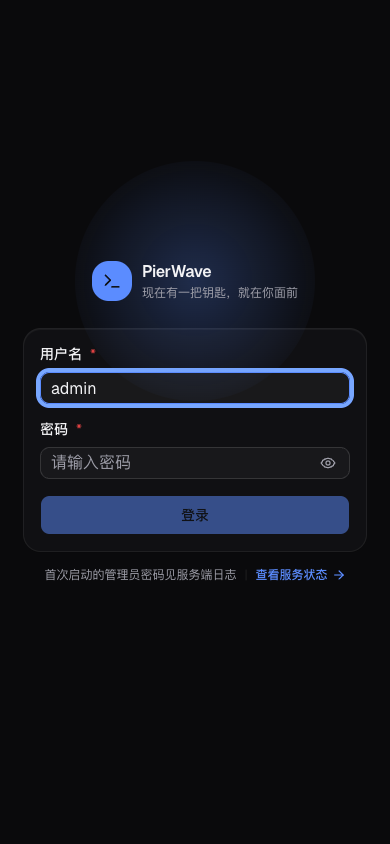
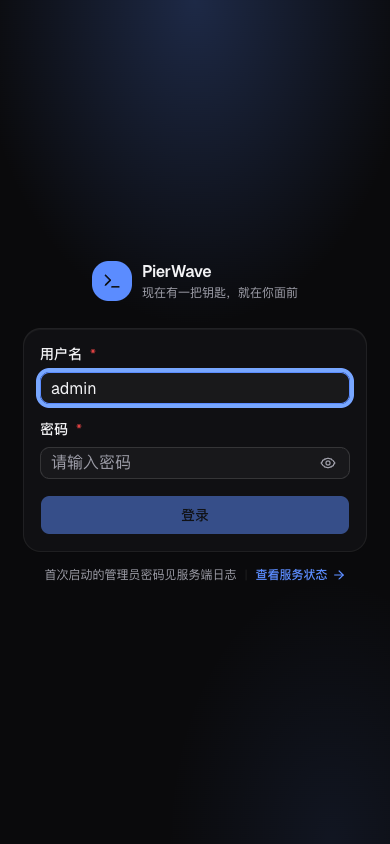
feat(web): restore the login glow as a documented exception
the owner prefers the full screen gradient there, so it comes back behind an
explicit rule that keeps it to that one screen, out of the interaction path and
above the contrast floor.

Changed region(s): [[0.1538, 0.0, 0.8308, 0.2156], [0.2769, 0.2773, 0.7077, 0.4313]]

diff --git a/web/src/index.css b/web/src/index.css
@@ -168,8 +168,12 @@
   --card-shadow:
     inset 0 1px 0 rgb(255 255 255 / 0.045),
     0 1px 2px rgb(0 0 0 / 0.35);
-  /* 登录页品牌标识周围的小范围光晕强度：深色底上可以更明显 */
-  --auth-glow-strong: 26%;
+  /*
+   * 登录页整屏光晕强度（设计规范里唯一允许的整屏渐变）：
+   * 深色底上可以更明显，但只到「一层氛围」为止，不压过卡片。
+   */
+  --auth-glow-strong: 24%;
+  --auth-glow-soft: 9%;
   --radius: 0.75rem;
   --sidebar: oklch(0.165 0.005 285);
   --sidebar-foreground: oklch(0.965 0.003 285);
@@ -220,8 +224,9 @@
   --chart-5: oklch(0.554 0.041 257.4);
   --overlay: oklch(0.253 0.03 267.4 / 40%);
   --skeleton: oklch(0.253 0.03 267.4 / 6%);
-  /* 亮色下主色本身更深，光晕要收着用，避免品牌区域发蓝 */
-  --auth-glow-strong: 12%;
+  /* 亮色下主色本身更深，光晕要收着用，避免整屏发蓝、吃掉次要文字对比度 */
+  --auth-glow-strong: 11%;
+  --auth-glow-soft: 4.5%;
   --sidebar: oklch(1 0 0);
   --sidebar-foreground: oklch(0.253 0.03 267.4);
   --sidebar-primary: oklch(0.424 0.199 265.638);
@@ -481,16 +486,38 @@
 }
 
 /*
- * 登录页品牌光晕：只在 logo 与品牌名周围 240px 的圆内使用 primary 的
- * 低透明度径向渐变。页面背景保持平涂 zinc；不做整屏渐变，也不做动画。
+ * 登录页整屏光晕：这是整套视觉规范里唯一允许的整屏渐变
+ * （见 docs/DESIGN.md「例外：登录页允许整屏径向光晕」）。
+ *
+ * 只用 primary 的低透明度径向渐变，不引入第二种颜色，也不做动画：
+ * 一层从顶部中央向下铺开，一层在右下角收尾。深色下略强、亮色下收着用，
+ * 避免整屏发蓝；卡片与输入框都是不透明底色，光晕不会改变表单文字的实际
+ * 对比度（实测见 web/screenshots/web-polish/README.md）。
+ *
+ * 纯装饰层：`pointer-events: none` + aria-hidden，不遮挡也不拦截交互。
+ * 静态渐变没有动画，因此不需要额外的 reduced-motion 分支；在高对比度偏好下
+ * 整体再压低一层，防止渐变削弱文字对比。
  */
-.auth-brand-glow {
-  background-image: radial-gradient(
-    circle 190px at 50% 50%,
-    color-mix(in oklch, var(--primary) var(--auth-glow-strong), transparent),
-    transparent 72%
-  );
+.auth-glow {
+  pointer-events: none;
+  background-image:
+    radial-gradient(
+      ellipse 80% 55% at 50% 0%,
+      color-mix(in oklch, var(--primary) var(--auth-glow-strong), transparent),
+      transparent 70%
+    ),
+    radial-gradient(
+      ellipse 60% 45% at 85% 100%,
+      color-mix(in oklch, var(--primary) var(--auth-glow-soft), transparent),
+      transparent 70%
+    );
   background-repeat: no-repeat;
+}
+
+@media (prefers-contrast: more) {
+  .auth-glow {
+    opacity: 0.45;
+  }
 }
 
 @media (prefers-reduced-motion: reduce) {

diff --git a/web/src/pages/Login.tsx b/web/src/pages/Login.tsx
@@ -48,21 +48,23 @@ export default function LoginPage() {
     : null;
 
   return (
-    <div className="relative grid min-h-full place-items-center bg-background p-6">
+    <div className="relative grid min-h-full place-items-center overflow-hidden bg-background p-6">
+      {/* 整屏光晕：设计规范里唯一允许的整屏渐变，只属于登录页。
+          纯装饰层（pointer-events-none + aria-hidden），不遮挡、不拦截交互。 */}
+      <div
+        aria-hidden="true"
+        className="auth-glow pointer-events-none absolute inset-0"
+      />
+
       <div className="animate-enter relative w-full max-w-sm">
         <div className="mb-7 flex flex-col items-center gap-4 text-center">
           {/* 品牌标识：logo 与两行文字等高（40px），两行之间只留 2px。
-              缩进由 flex 布局自然产生，不再用 pl-* 对齐文字。
-              光晕只覆盖这一行（240px 圆），不再铺满整屏。 */}
-          <div className="relative isolate flex min-w-0 items-center gap-2.5">
-            <div
-              aria-hidden="true"
-              className="auth-brand-glow pointer-events-none absolute top-1/2 left-1/2 -z-10 size-60 -translate-x-1/2 -translate-y-1/2 rounded-full"
-            />
-            <span className="relative grid size-10 shrink-0 place-items-center rounded-xl bg-primary text-primary-foreground">
+              缩进由 flex 布局自然产生，不再用 pl-* 对齐文字。 */}
+          <div className="flex min-w-0 items-center gap-2.5">
+            <span className="grid size-10 shrink-0 place-items-center rounded-xl bg-primary text-primary-foreground">
               <TerminalIcon className="icon-lg" aria-hidden="true" />
             </span>
-            <span className="relative flex min-w-0 flex-col text-left">
+            <span className="flex min-w-0 flex-col text-left">
               <span className="truncate text-base leading-tight font-semibold tracking-tight">
                 {panelName}
               </span>

diff --git a/web/screenshots/web-polish/README.md b/web/screenshots/web-polish/README.md
@@ -32,16 +32,48 @@ assertion fails.
 
 ## 1. 登录页整屏光晕 / Login full-screen glow
 
-- 改前：`.auth-glow` 铺满 `inset-0`，页面顶部整片径向渐变。
-- 改后：删除整屏层，只在品牌标识行内保留 `240×240` 容器、`190px` 半径的
-  `radial-gradient`；页面与 `body` 的 `background-image` 均为 `none`。
+- 现状（项目所有者确认的唯一例外）：`.auth-glow` 覆盖 `inset-0`，由两层
+  `primary` 低透明度 `radial-gradient` 组成（顶部中央主光 + 右下角收尾），
+  深色下 24% / 9%、亮色下 11% / 4.5%，无动画；`pointer-events: none` +
+  `aria-hidden="true"`，不拦截交互，`prefers-contrast: more` 下整体降到 45%。
+- 规范：见 `docs/DESIGN.md`「例外：登录页允许整屏径向光晕 / Exception:
+  full-screen radial glow on the login page」；只允许出现在登录页。
+- 上一轮的「光晕收进品牌区」已被所有者要求撤回（整页渐变恢复为唯一例外）。
 
 | 亮 / light 1440 | 亮 / light 390 | 暗 / dark 1440 | 暗 / dark 390 |
 |---|---|---|---|
 | [before](before/login-light-1440.png) → [after](after/login-light-1440.png) | [before](before/login-light-390.png) → [after](after/login-light-390.png) | [before](before/login-dark-1440.png) → [after](after/login-dark-1440.png) | [before](before/login-dark-390.png) → [after](after/login-dark-390.png) |
 
-断言：`oldGlowPresent=false`、`glowWidth/Height=240`、`glowBackground` 含
-`radial-gradient(190px, …)`、页面容器与 `body` 的 `backgroundImage=none`。
+断言：`.auth-glow` 存在且 `getBoundingClientRect()` ≥ 视口（1440×900 / 390×844）；
+页面容器 `background-image` 为 `radial-gradient(…)` 而不是 `none`；
+`pointer-events=none`、`aria-hidden=true`；`body` 仍无渐变。
+
+Assertions: `.auth-glow` exists and its `getBoundingClientRect()` covers the
+viewport; the page container's `background-image` is a `radial-gradient(…)`,
+not `none`; `pointer-events=none` and `aria-hidden=true`; `body` still has no
+gradient.
+
+对比度实测（1440×900，headless Chrome 取渲染像素，文字色取自
+`getComputedStyle`，背景取截图像素）：
+
+Measured contrast (1440×900, rendered pixels sampled from headless Chrome;
+text colors from `getComputedStyle`, backgrounds from screenshot pixels):
+
+| 文字 / Text | 亮 / light | 暗 / dark |
+|---|---|---|
+| 表单标签 / form label | 15.88:1 | 17.14:1 |
+| 输入值 / typed input value | 15.88:1 | 15.84:1 |
+| placeholder | 5.51:1 | 6.54:1 |
+| 登录按钮（可用态）/ enabled button | 8.74:1 | 5.93:1 |
+| 品牌副标题（压在光晕上）/ brand subtitle over glow | 5.15:1 | 7.28:1 |
+| 底部提示（压在光晕上）/ hint over glow | 5.19:1 | 7.37:1 |
+
+全部 ≥ 4.5:1。禁用态按钮是整体 50% 不透明度（WCAG 1.4.3 对非活动控件豁免），
+填入密码后恢复为可用态；这不是本轮引入的行为。
+
+All values are ≥ 4.5:1. The disabled button is rendered at 50% opacity (WCAG
+1.4.3 exempts inactive controls) and returns to the enabled state once the
+password is filled; this behavior predates this change.
 
 ## 2. 概览双 Y 轴 / Overview dual Y axis
 

diff --git a/docs/DESIGN.md b/docs/DESIGN.md
@@ -42,6 +42,37 @@
 6. 骨架屏：shimmer 1.2s 循环。
 
 禁止：整屏渐变、发光、弹跳、超过 300ms 的过渡、滚动视差。
+唯一的例外见下（登录页整屏径向光晕）。
+
+### 例外：登录页允许整屏径向光晕 / Exception: full-screen radial glow on the login page
+
+**中文**：`/login` 是唯一允许整屏渐变（同时也就是唯一允许「发光」）的一屏。
+使用一到两层 `primary` 低透明度的 `radial-gradient`（`.auth-glow`，`inset-0`），
+不引入第二种颜色，不加动画。
+
+- 理由：登录页是用户进入产品的第一印象，需要一层品牌氛围；它是全站唯一
+  只承载品牌、不承载信息的页面，渐变不会与数据抢注意力。
+- 约束：**只此一处，不得扩散**到控制台或其它页面；光晕层必须
+  `pointer-events: none` + `aria-hidden="true"`，不遮挡、不拦截交互；亮/暗
+  主题各自取值（暗色不过亮、亮色不过蓝），表单文字与背景对比度不得低于
+  4.5:1；`prefers-contrast: more` 下降低不透明度；不新增动画，未来若加动效
+  必须尊重 `prefers-reduced-motion`。
+
+**English**: `/login` is the only screen allowed to use a full-viewport gradient
+(and therefore the only place where a "glow" is allowed). Use one or two
+low-opacity `primary` `radial-gradient` layers (`.auth-glow`, `inset-0`) with no
+second color and no animation.
+
+- Why: the login screen is the product's first impression and needs a layer of
+  brand atmosphere; it is the only screen that carries brand and no
+  information, so the gradient never competes with data.
+- Constraints: **this one place only — never spread it** to the console or any
+  other page; the glow layer must set `pointer-events: none` and
+  `aria-hidden="true"` so it never blocks or intercepts interaction; light and
+  dark themes get their own strength (not too bright in dark, not too blue in
+  light) and form text must stay at or above 4.5:1 against its background;
+  reduce opacity under `prefers-contrast: more`; add no animation, and any
+  future motion must respect `prefers-reduced-motion`.
 
 ## 四、组件策略
 
